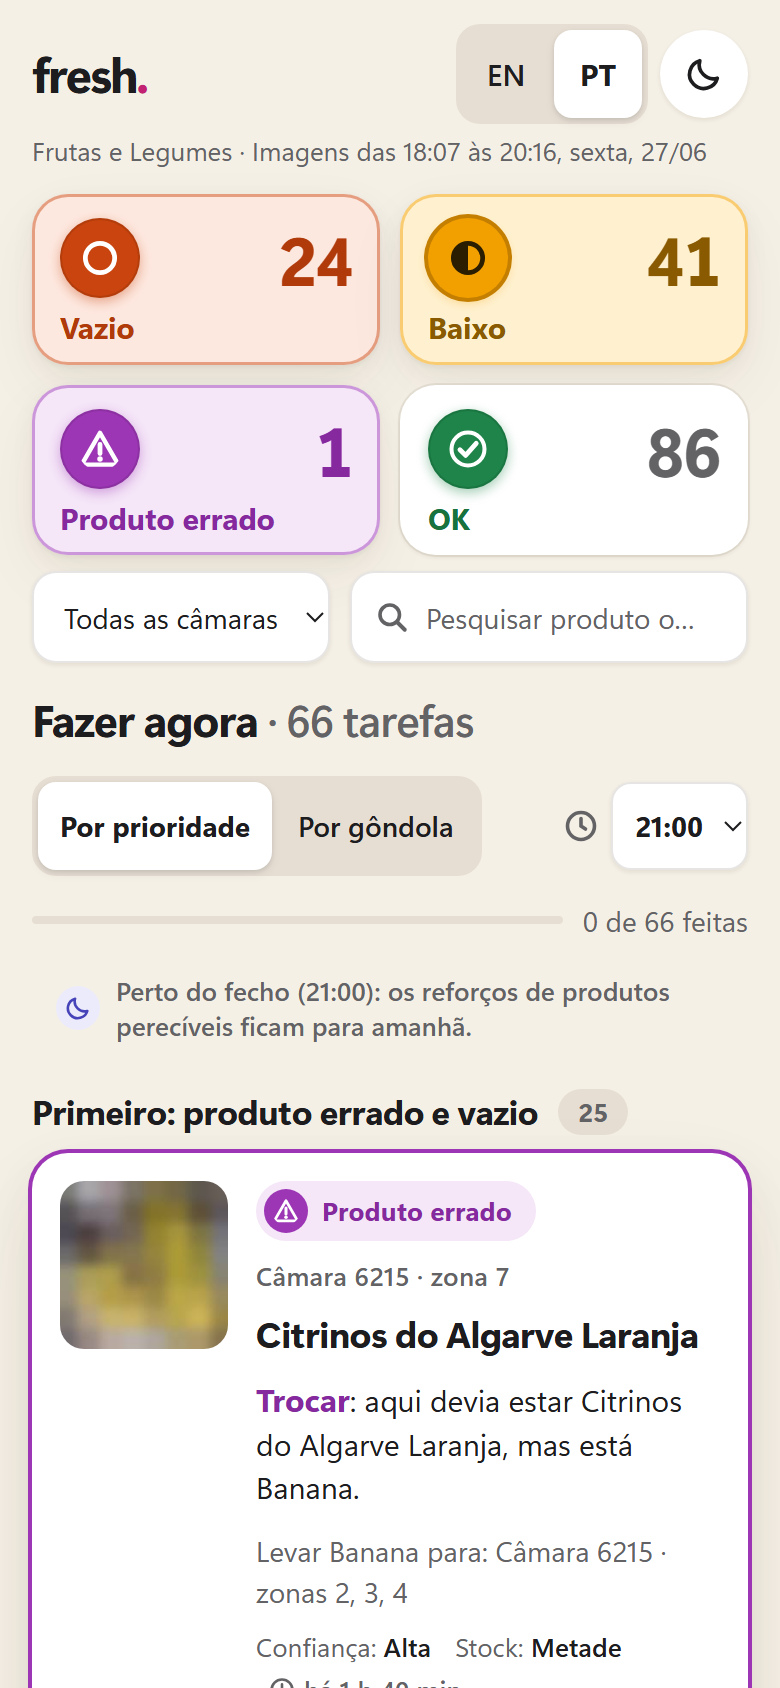
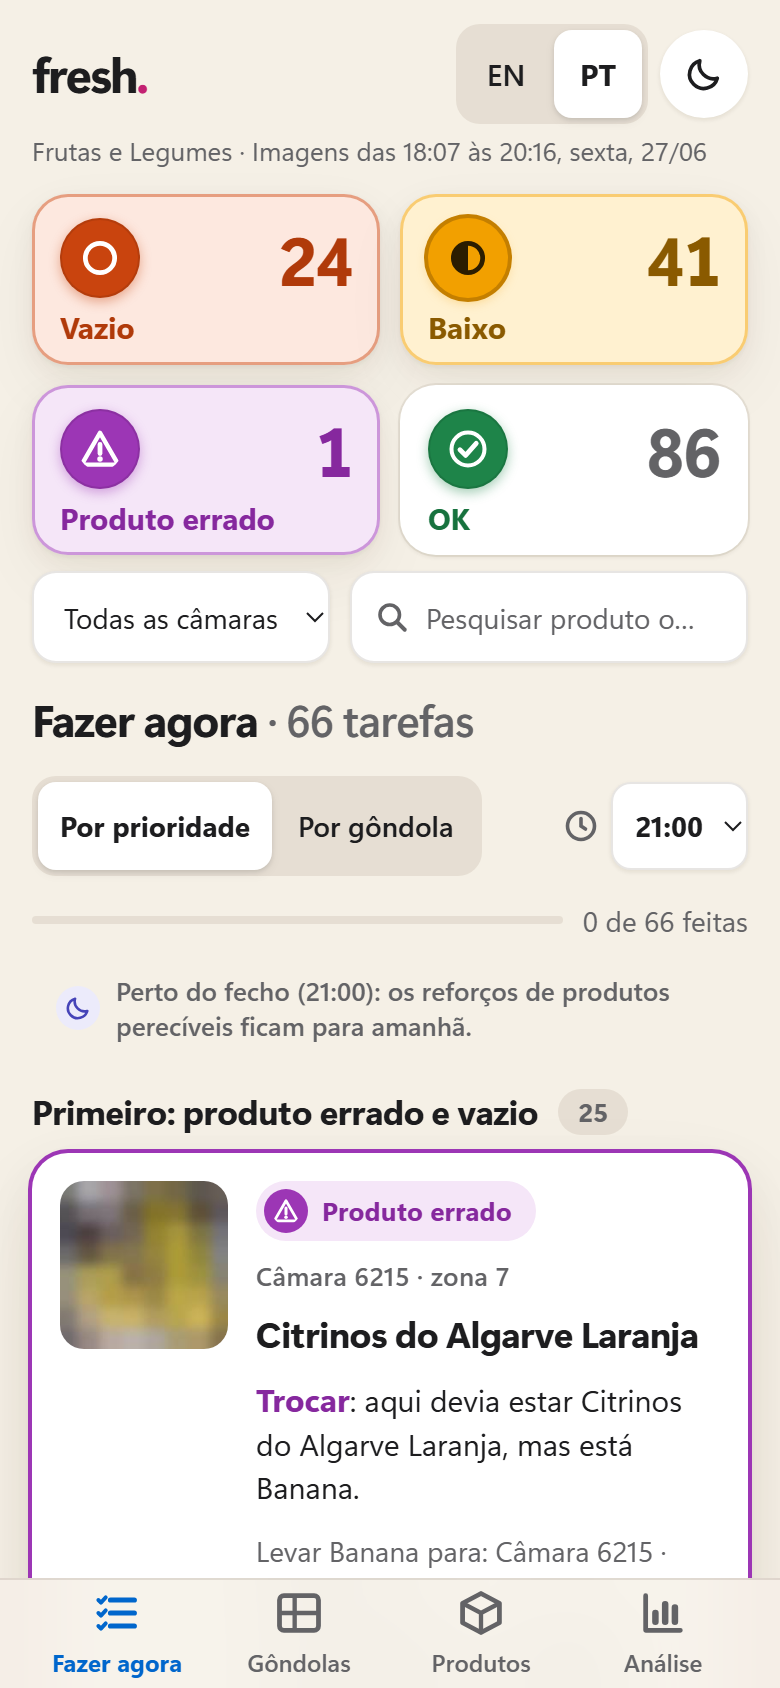
Site: tighter hero, headline on two lines on desktop

diff --git a/site.css b/site.css
@@ -117,12 +117,12 @@ h3 { font-size: 21px; line-height: 1.2; font-weight: 700; }
 .ctas { display: flex; flex-wrap: wrap; justify-content: center; gap: 12px; }
 
 /* ---------------------------------------------------------------- hero */
-.hero { padding: clamp(48px, 9vw, 104px) 0 clamp(64px, 10vw, 120px); text-align: center; overflow: hidden; }
-.hero-logo { width: clamp(132px, 15vw, 184px); height: auto; margin: 0 auto 28px; filter: drop-shadow(0 10px 24px rgba(195, 33, 114, .25)); }
+.hero { padding: clamp(40px, 6vw, 72px) 0 clamp(64px, 10vw, 120px); text-align: center; overflow: hidden; }
+.hero-logo { width: clamp(112px, 12vw, 152px); height: auto; margin: 0 auto 22px; filter: drop-shadow(0 10px 24px rgba(195, 33, 114, .25)); }
 .hero .eyebrow { color: var(--muted); }
 .hero h1 {
-  font-size: clamp(44px, 9.4vw, 104px); line-height: .98; font-weight: 800; letter-spacing: -.045em;
-  margin: 0 auto; max-width: 13ch; text-wrap: balance;
+  font-size: clamp(40px, 7.6vw, 88px); line-height: 1; font-weight: 800; letter-spacing: -.045em;
+  margin: 0 auto; max-width: 24ch; text-wrap: balance;
 }
 .lede { font-size: clamp(19px, 2.4vw, 24px); line-height: 1.4; color: var(--muted); max-width: 30ch; margin: 24px auto 36px; font-weight: 450; text-wrap: balance; }
 .hero .ctas { margin-bottom: clamp(48px, 7vw, 80px); }
